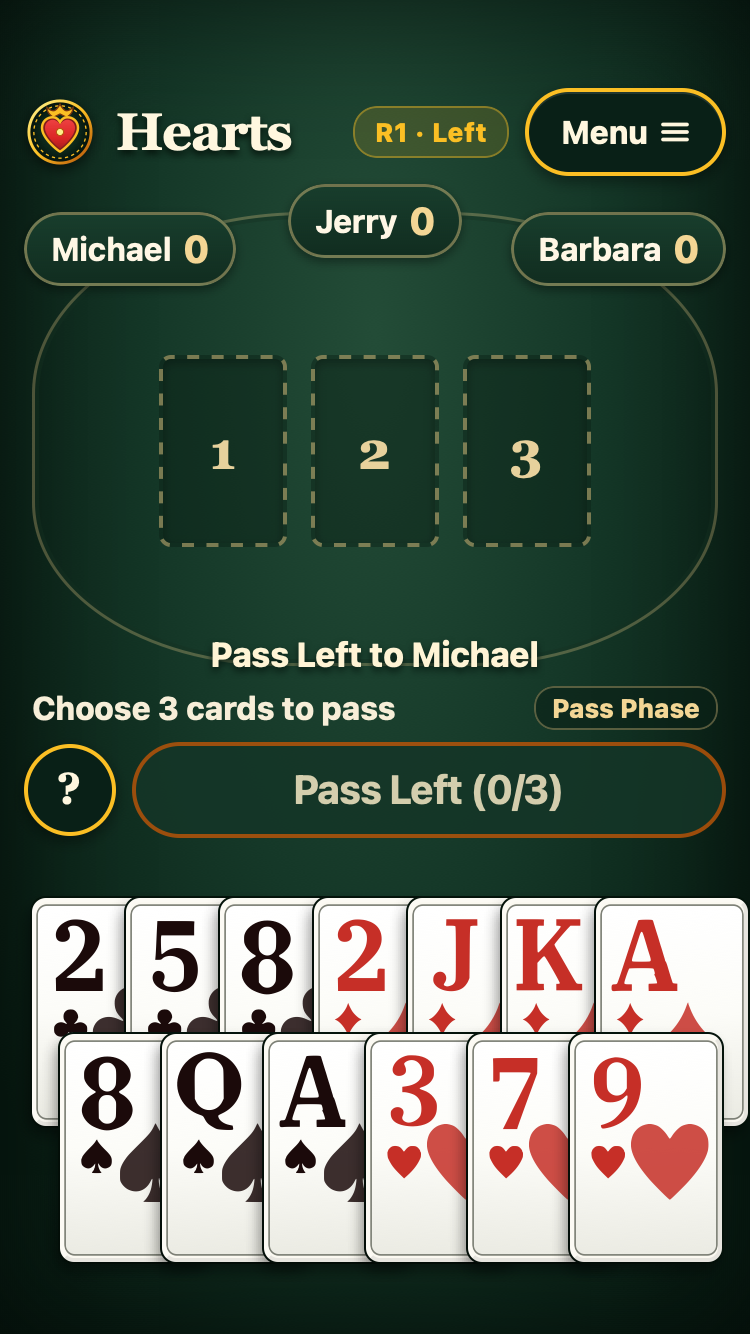
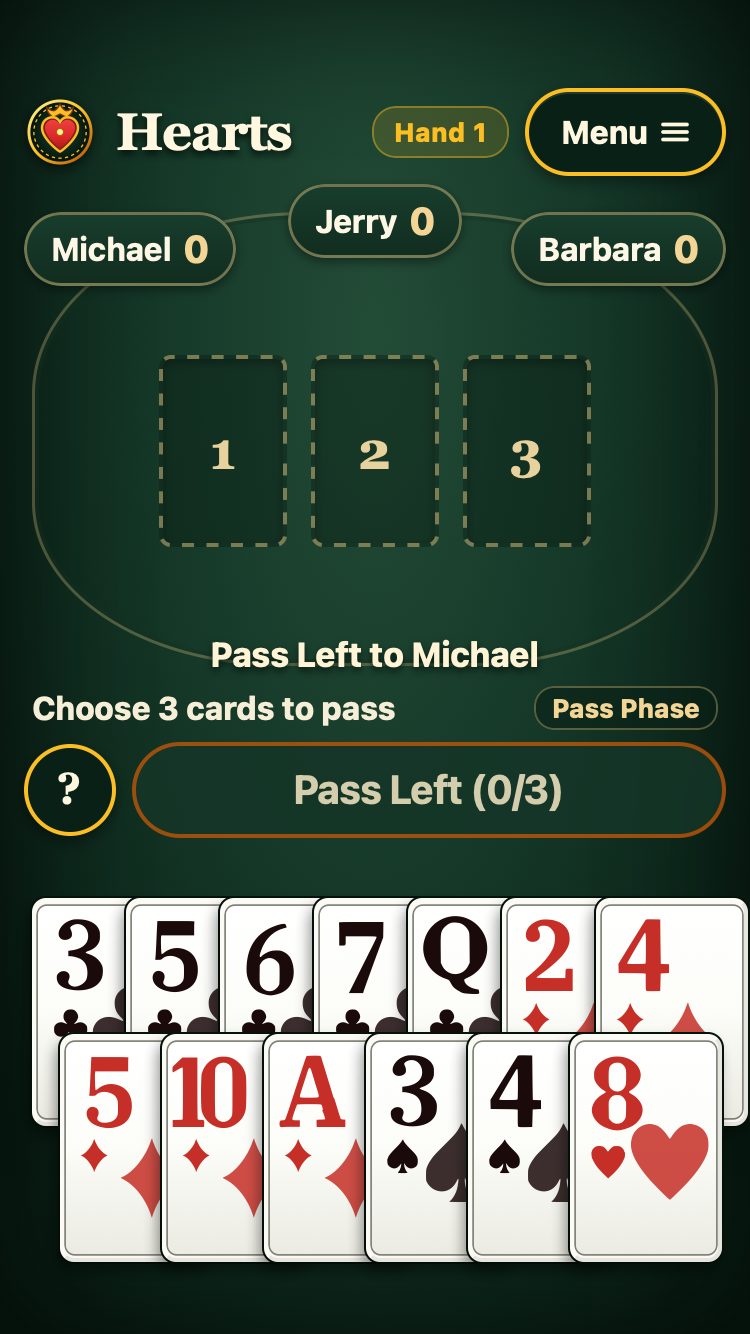
fix(hearts): set header badge to 'Hand 1' (drop Left) and fix repeating animation bug across tricks

diff --git a/hearts/js/app.js b/hearts/js/app.js
@@ -13,6 +13,7 @@
   let soundEnabled = true;
   let activeResolvedTrick = null;
   let activeTrickWinnerPlay = null;
+  let justReceivedCards = false;
 
   // Web Audio Chimes
   let audioCtx = null;
@@ -132,8 +133,7 @@
       }
     });
 
-    const passShort = { 'Pass Left': 'Left', 'Pass Right': 'Right', 'Pass Across': 'Across', 'Hold Hand': 'Hold' }[engine.passDir.label] || engine.passDir.label;
-    elRoundStatus.textContent = `R${engine.roundNumber} · ${passShort}`;
+    elRoundStatus.textContent = `Hand ${engine.roundNumber}`;
   }
 
   function renderHand() {
@@ -238,11 +238,12 @@
       }
 
       const isReceived = card.isReceived;
+      const slideClass = (isReceived && justReceivedCards) ? 'sliding-in' : '';
       const ariaLabel = `${card.rank} of ${window.CardGlyphs.getSuitName(card.suit)}`;
       const svg = window.CardGlyphs.cardSVG(card.rank, card.suit, false);
 
       html += `
-        <button class="card ${cardStateClass} ${isReceived ? 'received' : ''}" id="card-${cardId}"
+        <button class="card ${cardStateClass} ${isReceived ? 'received' : ''} ${slideClass}" id="card-${cardId}"
           aria-label="${ariaLabel}" aria-pressed="${isSelected}"
           style="left:${x}px; top:${y}px; z-index:${z};"
           onclick="window.HeartsApp.handleCardClick('${cardId}')">
@@ -466,13 +467,32 @@
     `;
     elTableCenter.innerHTML = revealHTML;
 
-    // Step 2: After 1.2s, execute pass and animate cards sliding down into hand
+    // Step 2: After 1.2s, execute pass and animate cards sliding down into hand ONCE
     setTimeout(() => {
       playSound('play');
       engine.executePass();
       selectedPassCards = [];
       saveGame();
+
+      // Trigger one-time slide-in animation
+      justReceivedCards = true;
       updateControls();
+
+      // Clear slide-in flag after animation duration so future re-renders never animate again
+      setTimeout(() => {
+        justReceivedCards = false;
+      }, 1000);
+
+      // Settle received cards after 4.5s
+      setTimeout(() => {
+        if (engine.hands[0]) {
+          let hadReceived = false;
+          engine.hands[0].forEach(c => {
+            if (c.isReceived) { c.isReceived = false; hadReceived = true; }
+          });
+          if (hadReceived) updateControls();
+        }
+      }, 4500);
     }, 1200);
   }
 
@@ -480,6 +500,11 @@
     if (!selectedCardToPlay) return;
     const card = selectedCardToPlay;
     selectedCardToPlay = null;
+
+    // Settle received cards immediately when player makes their move
+    if (engine.hands[0]) {
+      engine.hands[0].forEach(c => { c.isReceived = false; });
+    }
 
     playSound('play');
     const result = engine.playCard(0, card);
@@ -523,8 +548,9 @@
   function handleTrickComplete(result) {
     const winnerName = window.HeartsEngine.PLAYERS[result.winnerId].name;
     const pts = result.points;
+    const isHuman = result.winnerId === 0;
     playSound('trick');
-    elStatus.textContent = `${winnerName} wins trick (${pts} pts)`;
+    elStatus.textContent = isHuman ? `You win the trick! (${pts} pts)` : `${winnerName} wins trick (${pts} pts)`;
     elInstruction.textContent = pts > 0 ? `Took ${pts} penalty points` : "Zero penalty points";
 
     // Spotlight trick cards and winner
@@ -536,6 +562,9 @@
     setTimeout(() => {
       activeResolvedTrick = null;
       activeTrickWinnerPlay = null;
+      if (engine.hands[0]) {
+        engine.hands[0].forEach(c => { c.isReceived = false; });
+      }
       if (result.roundEnd) {
         if (engine.isMatchOver) {
           playSound('fanfare');

diff --git a/hearts/css/style.css b/hearts/css/style.css
@@ -576,8 +576,12 @@ html, body {
   border: 2.5px solid #10b981 !important;
   outline: 2px solid #6ee7b7 !important;
   outline-offset: 1px;
-  animation: slideDownIntoHand 0.9s cubic-bezier(0.16, 1, 0.3, 1) both;
+  box-shadow: 0 0 16px 4px rgba(16, 185, 129, 0.75), 0 8px 16px rgba(0,0,0,0.6);
   z-index: 38 !important;
+}
+
+.hand-area button.card.sliding-in {
+  animation: slideDownIntoHand 0.9s cubic-bezier(0.16, 1, 0.3, 1) both;
 }
 
 .hand-area button.card .received-badge {

diff --git a/hearts/index.html b/hearts/index.html
@@ -49,7 +49,7 @@
       Hearts
     </div>
     <div class="header-actions">
-      <div class="round-badge" id="round-status">R1 · Left</div>
+      <div class="round-badge" id="round-status">Hand 1</div>
       <button class="pill-btn menu-btn" onclick="document.getElementById('menu-dialog').showModal()" aria-haspopup="dialog" aria-label="Open game menu">
         Menu
         <svg width="15" height="15" viewBox="0 0 20 20" aria-hidden="true">

diff --git a/hearts/sw.js b/hearts/sw.js
@@ -1,4 +1,4 @@
-const CACHE_NAME = 'agy-hearts-v3';
+const CACHE_NAME = 'agy-hearts-v4';
 const ASSETS = [
   './',
   './index.html',
